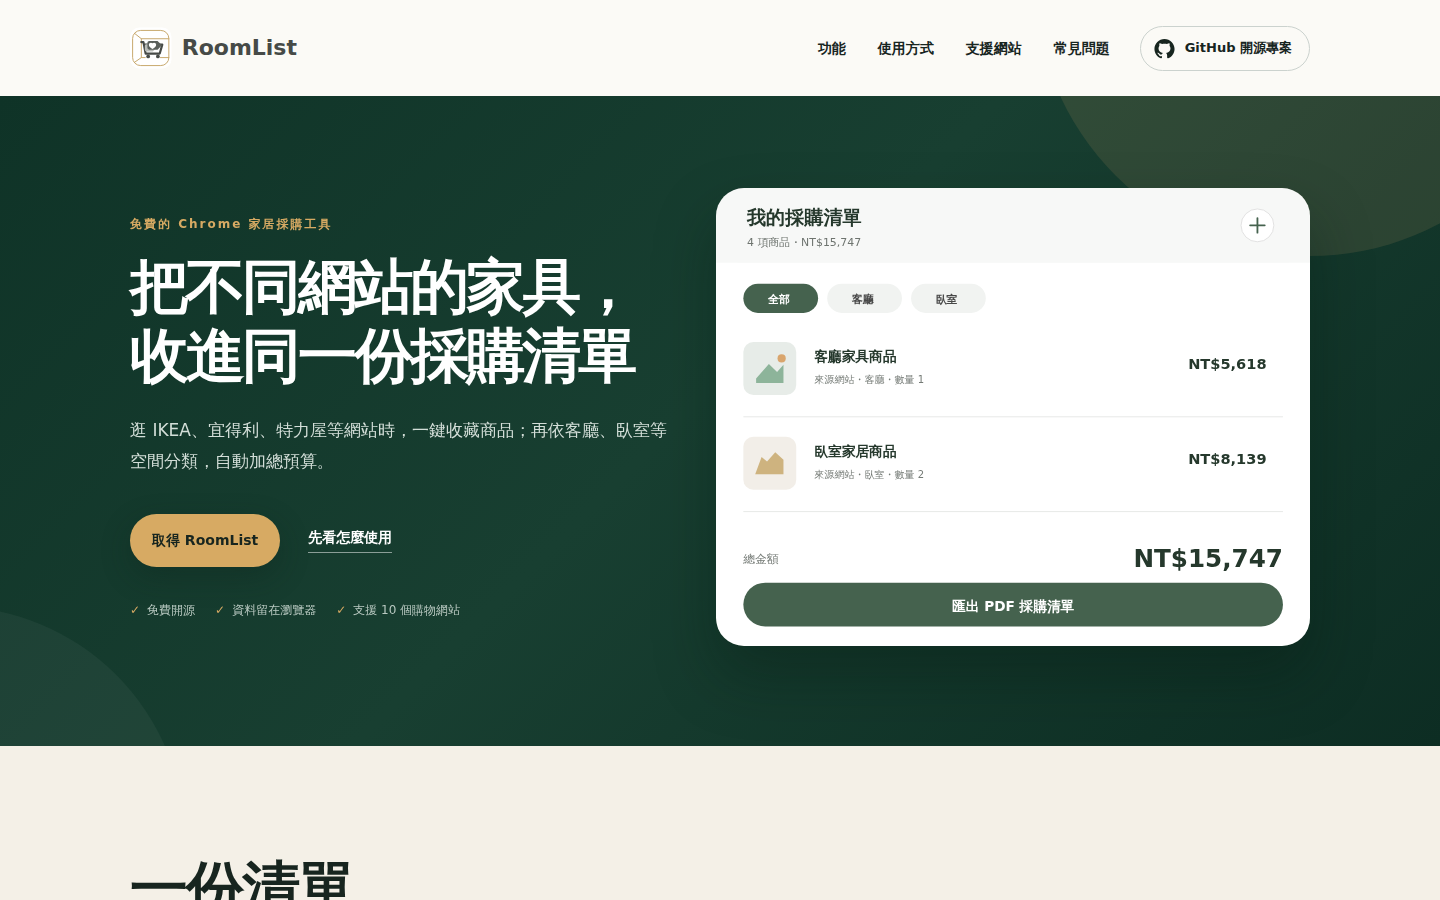
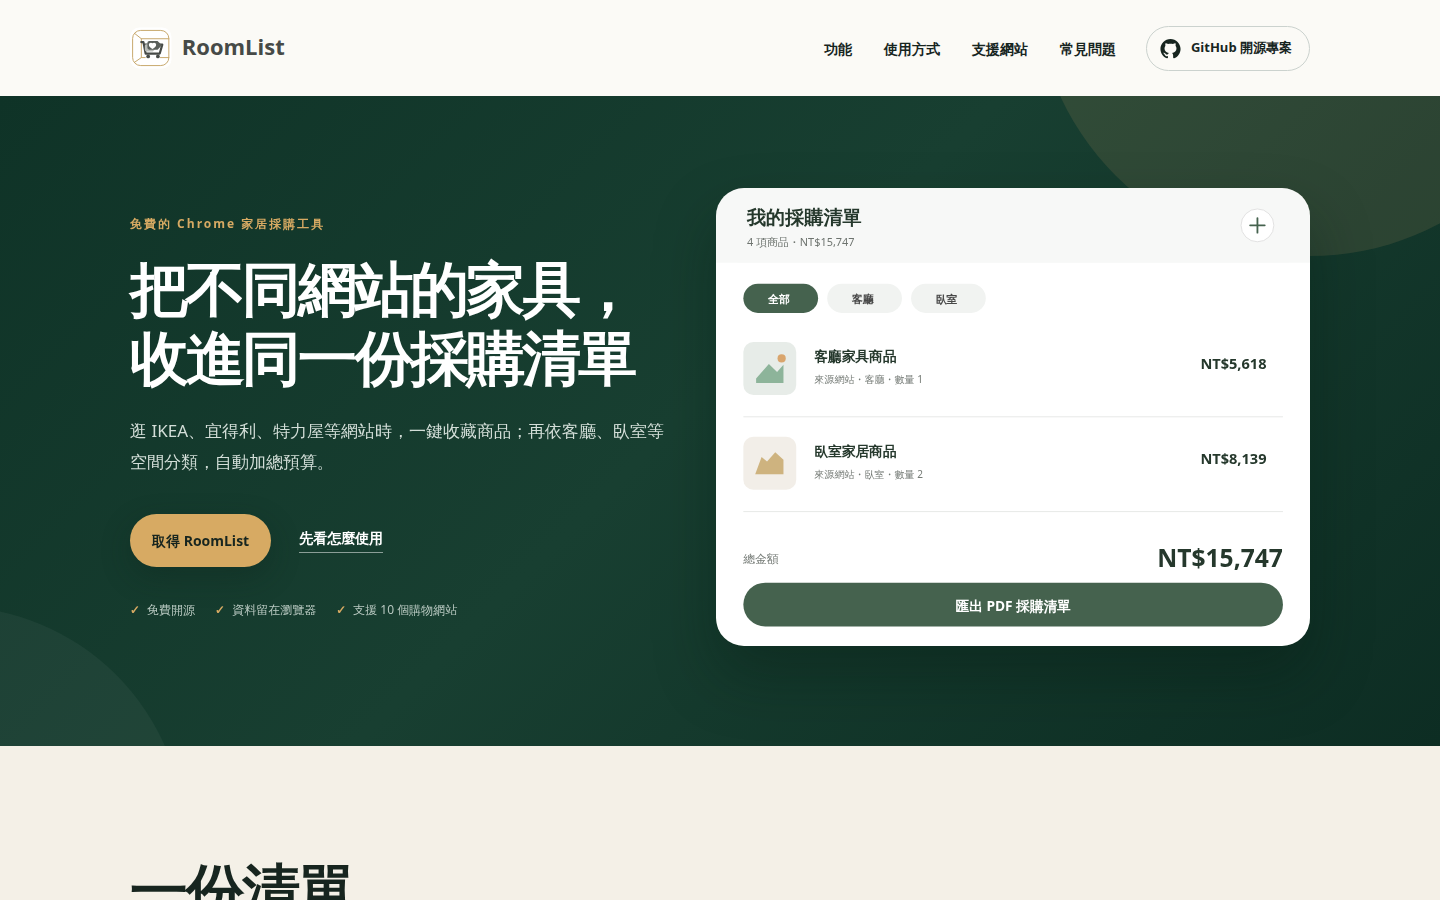
Remove screenshot hyperlink and improve font fidelity
- Screenshot is now a plain image, not a clickable link (the
  "線上預覽" text link above it is enough).
- Re-captured the screenshot after installing Noto Sans / Noto
  Sans CJK TC and aliasing them to the site's Avenir Next /
  PingFang TC / Noto Sans TC font stack, so the rendered text
  matches the real site much more closely than the previous
  fallback fonts.

Claude-Session: https://claude.ai/code/session_01YRjrDhLjNjvcn3wYEB355F

diff --git a/README.md b/README.md
@@ -4,7 +4,7 @@
 
 線上預覽：<https://roomlist-website.vercel.app/>
 
-[![RoomList 網站截圖](docs/screenshot.png)](https://roomlist-website.vercel.app/)
+![RoomList 網站截圖](docs/screenshot.png)
 
 ## 這個網站是什麼
 
